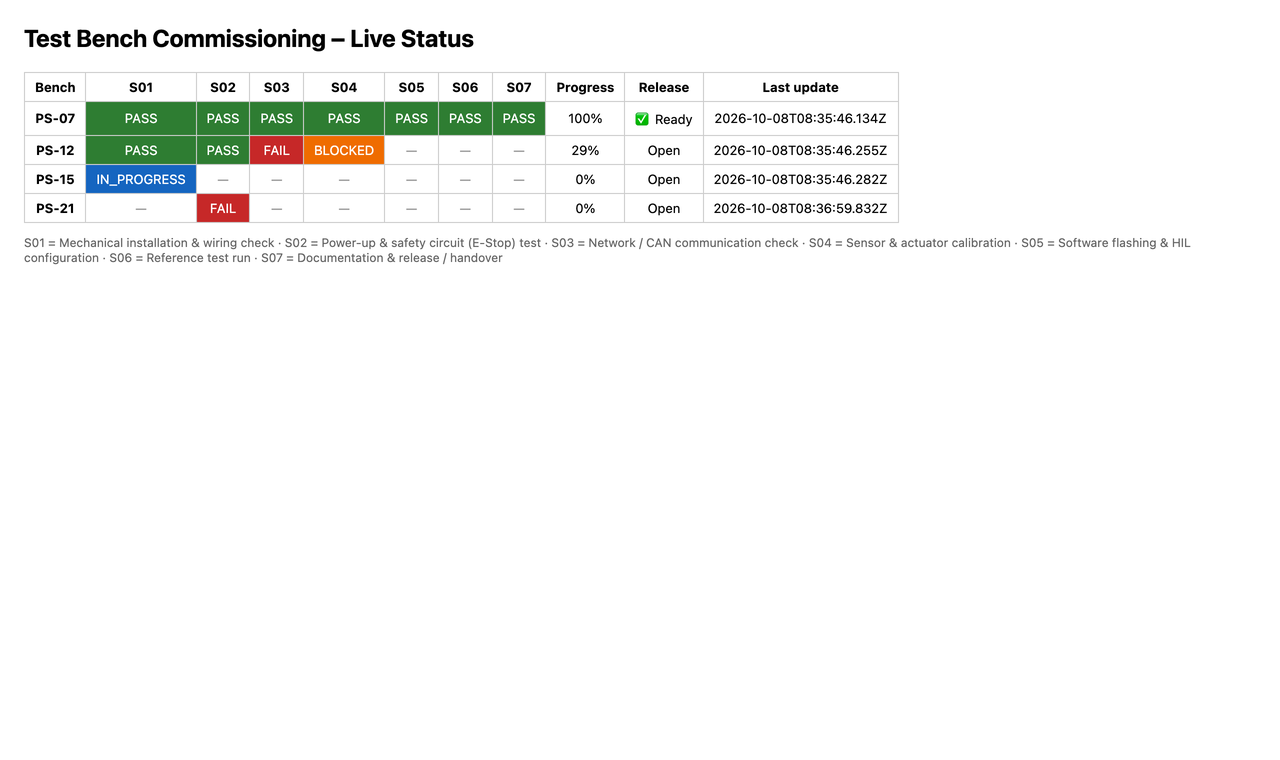
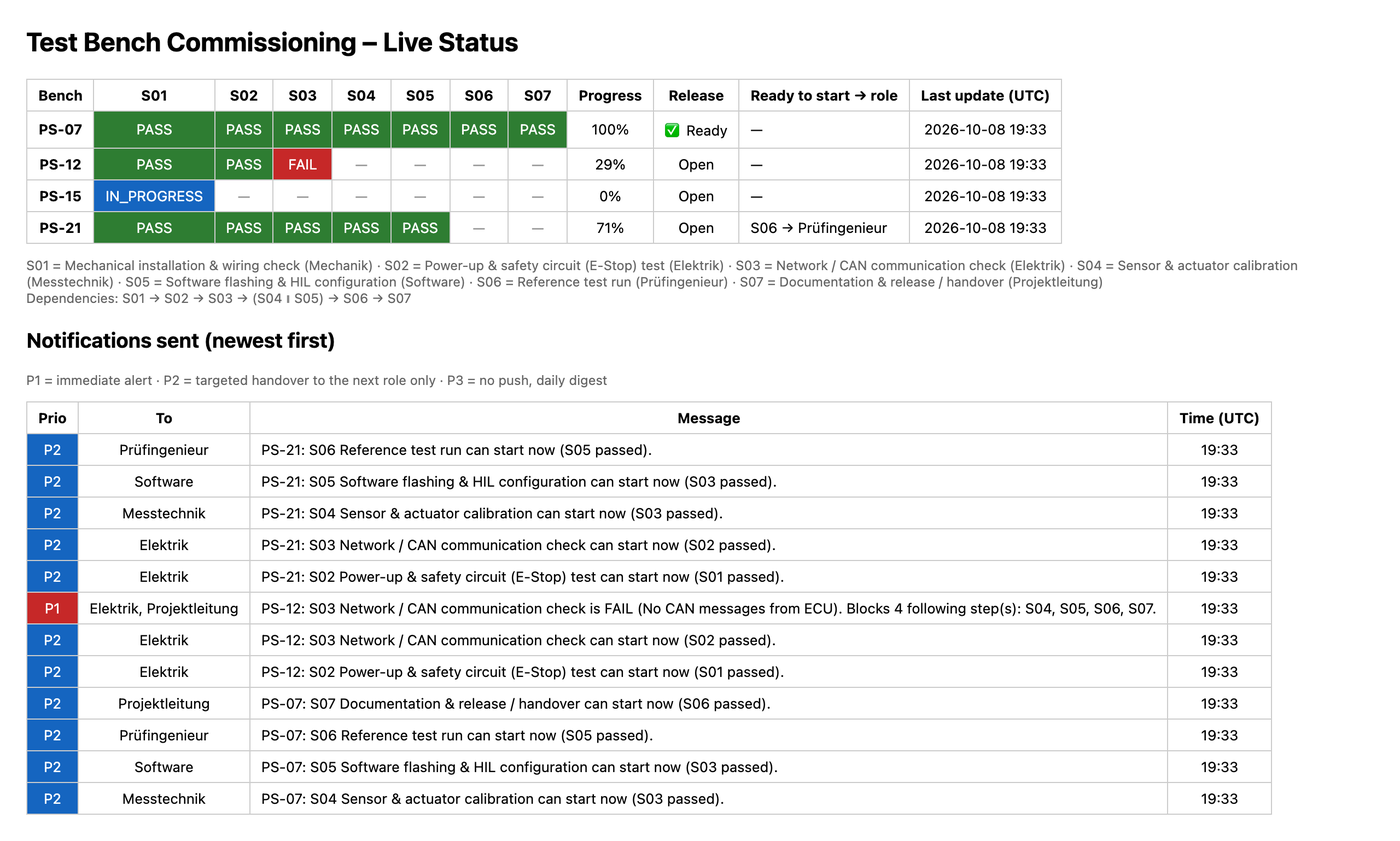
feat: dependency-aware, prioritised notifications and parallel steps

diff --git a/README.md b/README.md
@@ -1,6 +1,6 @@
 # Test Bench Commissioning Tracker (n8n)
 
-A low-code workflow automation that digitalizes the **commissioning process of test benches**: step results are captured through a web form or an HTTP API, validated, stored, escalated on failure and summarized in a live status dashboard and a daily status / release report.
+A low-code workflow automation that digitalizes the **commissioning process of test benches**: step results are captured through a web form or an HTTP API, validated and stored. The workflow knows **which step depends on which**, so it hands work over to the **next responsible role only** and escalates real blockers immediately. Everything is summarised in a live status dashboard and a daily status / release report.
 
 Built with **[n8n](https://n8n.io)** (self-hosted workflow automation), JavaScript Code nodes and plain HTML.
 
@@ -34,6 +34,8 @@ Commissioning a test bench is a sequence of steps such as wiring checks, safety 
 | **Media breaks**: results are written on paper or in Excel, then re-typed or mailed | Duplicate work, transcription errors, no single source of truth |
 | **No transparency**: project leads must ask "what is the status of bench PS-07?" | Status meetings and manual follow-ups |
 | **Late failure detection**: nobody is actively notified when a step fails or is blocked | Waiting time, delayed handover |
+| **Invisible dependencies**: the next person does not know that their step can start | Idle time between steps (waiting waste) |
+| **Notification overload** if everyone is informed about everything | Important messages get ignored |
 | **Manual reporting**: release / handover overviews are assembled by hand | Time-consuming and quickly outdated |
 
 **Goal:** one digital workflow that captures every step result once, at the source, and automatically turns it into transparency: alerts, a live dashboard and status / release reports.
@@ -45,7 +47,8 @@ Commissioning a test bench is a sequence of steps such as wiring checks, safety 
 | Capture step results without media breaks | **Web form** for technicians + **REST webhook** for scripts / test bench software |
 | Data quality | Central validation (bench ID, step ID, status, technician); invalid requests get `HTTP 400` with a list of errors |
 | Track execution and documentation | Every result is stored with technician, timestamp, comment and optional measurements, plus an audit log |
-| Fast reaction to problems | `FAIL` / `BLOCKED` results trigger an alert branch (ready for Microsoft Teams / e-mail) |
+| Fast reaction to problems | `FAIL` / `BLOCKED` results trigger a **P1** alert to the step owner and project lead, listing every downstream step that is now blocked |
+| Smooth handovers without notification flood | Dependency model (incl. parallel steps); when a step passes, only the role of the **newly unblocked** step gets one **P2** message. Everything else (**P3**) is not pushed, it appears in the dashboard and daily digest |
 | Transparency | Live **HTML dashboard**: bench × step matrix, colour coded, progress in %, release flag |
 | Automated status & release overview | **Scheduled report** every weekday at 08:00; a bench is *release-ready* when all steps are `PASS` |
 
@@ -55,7 +58,9 @@ Commissioning a test bench is a sequence of steps such as wiring checks, safety 
 - Enter **and update** results: submitting the same bench + step again overwrites the previous entry
 - Input normalisation (e.g. `ps-15` becomes `PS-15`, `in_progress` becomes `IN_PROGRESS`)
 - Progress calculation and automatic **release-ready** flag per bench
-- Escalation branch for failed or blocked steps
+- **Dependency-aware, prioritised notifications** (P1 alert / P2 targeted handover / P3 digest only)
+- **Parallel steps** supported: S04 and S05 start at the same time after S03; S06 waits for both
+- "Ready to start → role" column so every role sees what it can work on next
 - Daily status report (benches tracked, release-ready count, open issues per bench)
 - Runs fully **self-hosted** (Docker or Node.js), so data stays inside the lab / company network
 - Workflow stored as JSON, so it can be version-controlled and reviewed like code
@@ -76,8 +81,10 @@ flowchart LR
     Q -- no --> R400["Respond 400<br/>{errors}"]
     Q -- yes --> ST["Store Step Result<br/>(Code + workflow data)"]
     ST --> R200["Respond 200<br/>{progress_pct, release_ready}"]
-    ST --> FB{"FAIL or BLOCKED?"}
-    FB -- yes --> AL["Build Alert Message"] --> N["Notify Team<br/>(Teams / E-mail)"]
+    ST --> PN["Plan Notifications<br/>(dependencies → who + priority)"]
+    PN --> PQ{"P1 urgent?"}
+    PQ -- yes --> UA["Urgent alert<br/>step owner + project lead"]
+    PQ -- no --> HO["Handover message<br/>next role only"]
 
     subgraph Output
         D[/"Status Dashboard<br/>GET /webhook/commissioning-status"/] --> DH["Build HTML Dashboard"] --> DR["Return HTML"]
@@ -93,7 +100,7 @@ flowchart LR
 
 | Flow | Trigger | Purpose |
 |---|---|---|
-| A: Step result | `POST /webhook/commissioning-step` | Validate → store → respond → alert on `FAIL` / `BLOCKED` |
+| A: Step result | `POST /webhook/commissioning-step` | Validate → store → respond → plan notifications (P1 alert / P2 handover / P3 none) |
 | B: Dashboard | `GET /webhook/commissioning-status` | Render the live status matrix as HTML |
 | C: Daily report | Cron `0 8 * * 1-5` | Summarise progress, release-ready benches and open issues |
 | D: Entry form | `GET/POST /form/commissioning-form` | Human-friendly input; forwards to Flow A via HTTP Request, so validation and storage logic exist only once |
@@ -111,6 +118,27 @@ flowchart LR
 | S07 | Documentation & release / handover |
 
 **Status values:** `PASS` · `FAIL` · `BLOCKED` · `IN_PROGRESS`
+
+## Dependencies and prioritised notifications
+
+In a large organisation, "notify the next person when my task is done" quickly turns into hundreds of messages that nobody reads. The workflow therefore decides **who** needs to know and **how urgent** it is.
+
+```mermaid
+flowchart LR
+    S01["S01 Mechanik"] --> S02["S02 Elektrik"] --> S03["S03 Elektrik"]
+    S03 --> S04["S04 Messtechnik"]
+    S03 --> S05["S05 Software"]
+    S04 --> S06["S06 Prüfingenieur"]
+    S05 --> S06 --> S07["S07 Projektleitung"]
+```
+
+| Priority | When | Who is notified | Channel |
+|---|---|---|---|
+| **P1** urgent | A step is `FAIL` or `BLOCKED` | Owner role of the step + project lead, with the list of blocked downstream steps | Immediate push (e.g. Teams) |
+| **P2** handover | A step `PASS`es **and** a following step becomes startable (all its dependencies passed) | **Only** the role of the newly unblocked step | One targeted message |
+| **P3** info | `IN_PROGRESS`, or a `PASS` that does not unblock anything yet | Nobody | Dashboard + daily digest only |
+
+Example: when S04 passes but S05 is still running, **no message** is sent. When S05 passes too, only the *Prüfingenieur* receives "S06 can start now". Notifications are addressed to **roles**, not to individuals, so the mapping can follow team changes without touching the workflow.
 
 ```jsonc
 // stored per bench
@@ -201,7 +229,7 @@ Returns the HTML dashboard.
 ```
 .
 ├── workflows/
-│   └── commissioning_tracker_workflow.json   # n8n workflow (18 nodes, 4 triggers)
+│   └── commissioning_tracker_workflow.json   # n8n workflow (19 nodes, 4 triggers)
 ├── scripts/
 │   └── send_test_data.sh                     # sample data + invalid request
 ├── docs/images/                              # demo GIF and screenshots
@@ -214,6 +242,7 @@ Returns the HTML dashboard.
 - **One validation path.** The form does not duplicate the logic; it forwards to the same webhook as machines do. n8n also does not allow *Respond to Webhook* nodes in form-started executions, so this keeps both entry points clean.
 - **Validate at the entry point.** Bad data is rejected with a clear message instead of polluting the dashboard.
 - **Code nodes only where they add value.** Validation, aggregation and HTML rendering are in small, named JavaScript nodes; routing uses standard IF nodes so the flow stays readable for non-developers.
+- **Notify by dependency and priority, not by default.** Only blockers are pushed immediately; handovers go to one role; everything else is pulled from the dashboard. This keeps the signal-to-noise ratio high as the number of benches and people grows.
 - **Placeholders for notifications.** Alert and report nodes are No-Op nodes, so the workflow runs without credentials; swap them for *Microsoft Teams*, *Outlook* or *Slack* nodes.
 - **Self-hosted.** Can run inside an isolated lab network next to the test benches; only aggregated status needs to leave it.
 
@@ -222,7 +251,7 @@ Returns the HTML dashboard.
 **Current limitations**
 - Storage uses n8n workflow static data (demo-grade: persisted only for active / production executions, no concurrent-write control).
 - Webhooks have no authentication yet.
-- The step list is defined in the Code nodes.
+- The step list, dependencies and role mapping are defined in the Code nodes (one shared block).
 
 **Roadmap**
 - [ ] Persist results in **SharePoint / Microsoft Lists or PostgreSQL** (and feed Power BI)
